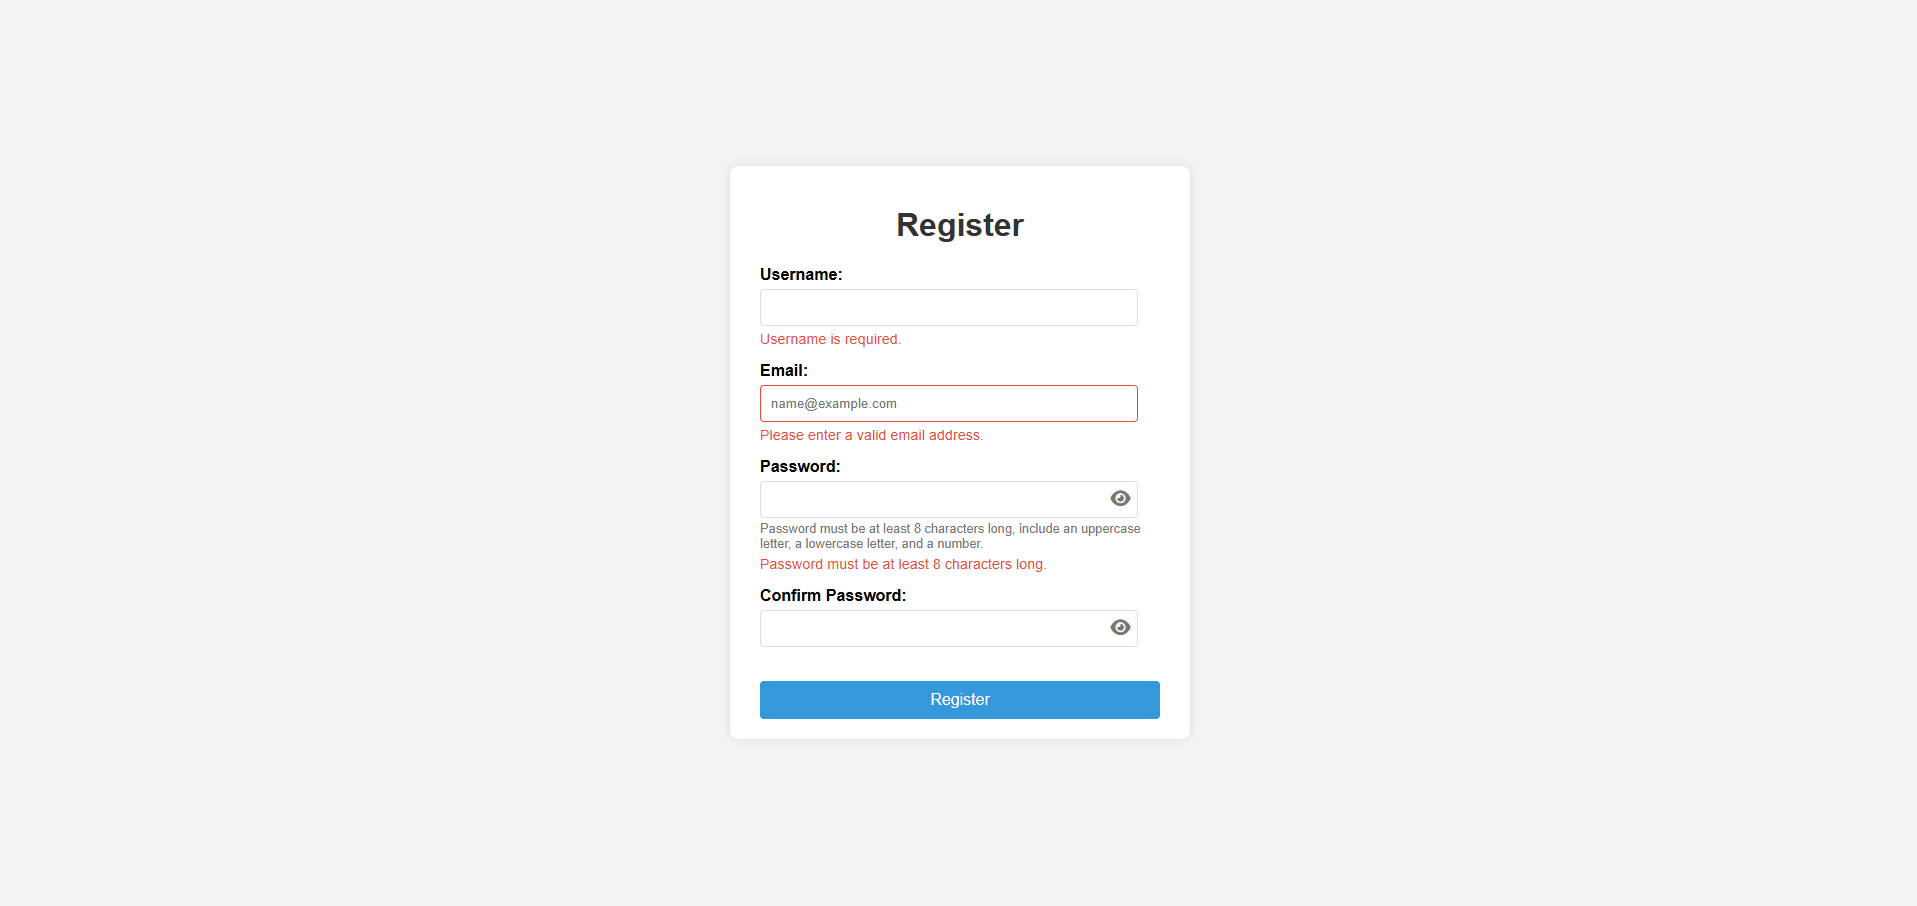
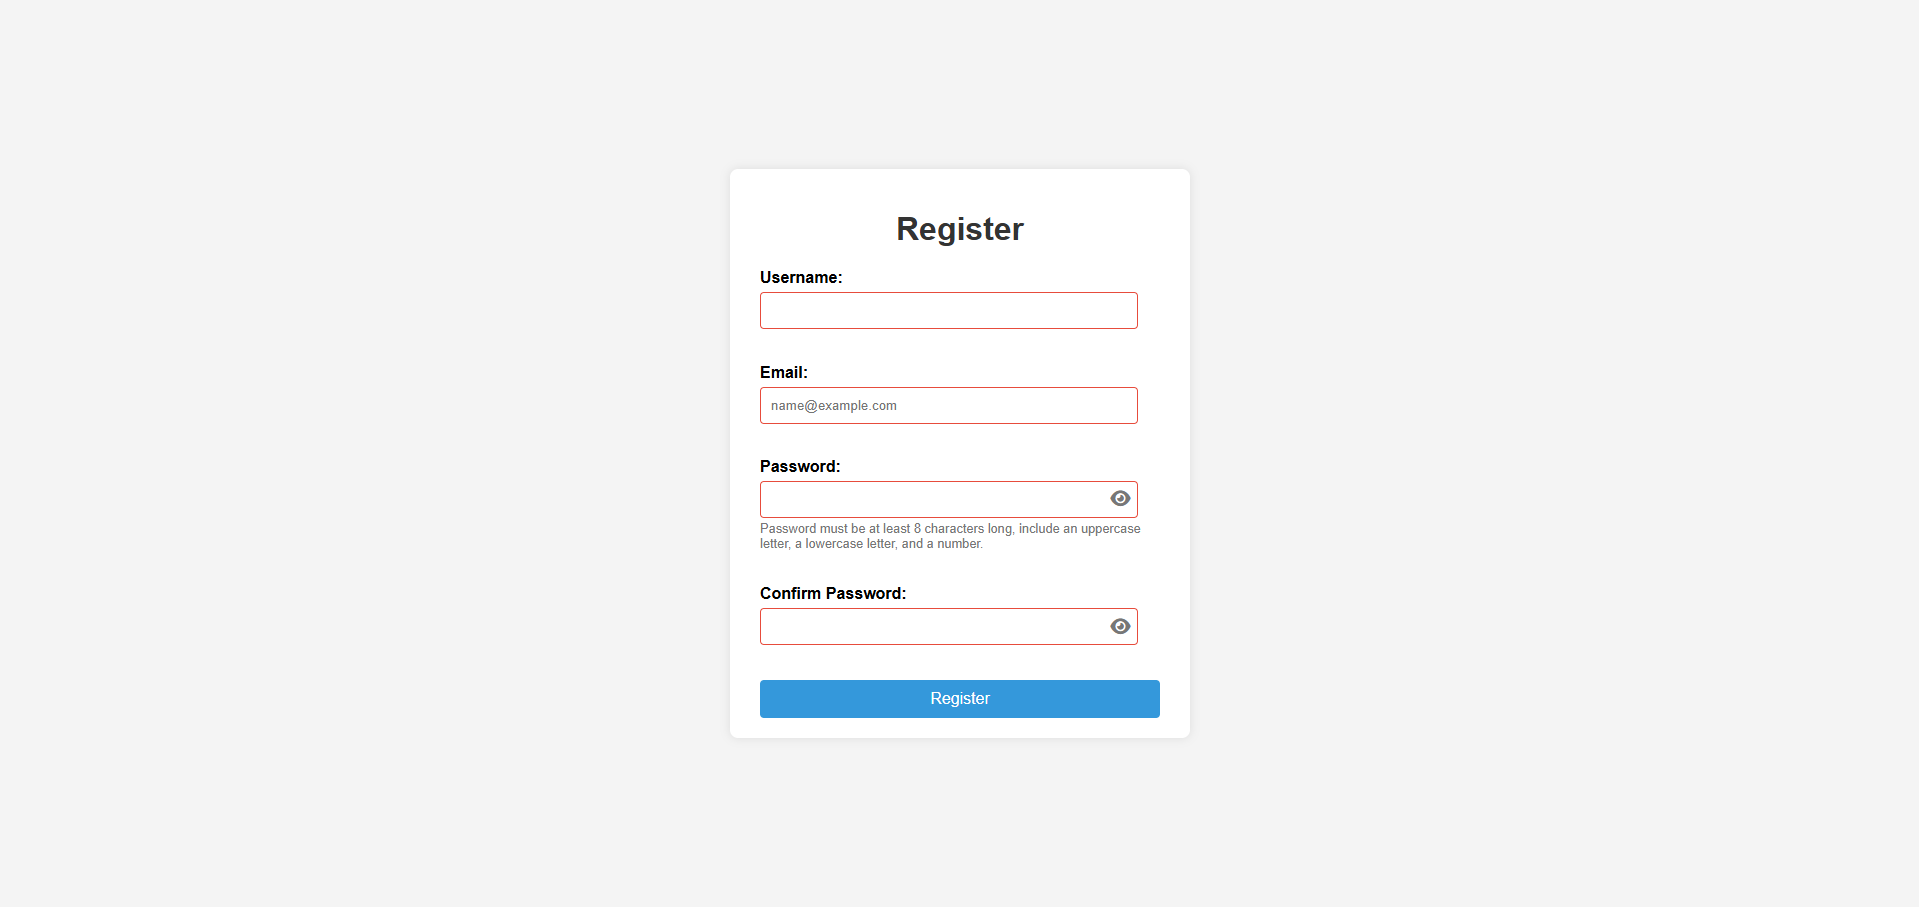
added new images to display in form preview section of README

diff --git a/README.md b/README.md
@@ -16,10 +16,13 @@ In order to create a responsive and interactive form, I applied a wide range of 
 
 [Click Here to Access Interactive User Registration Form](https://htmlpreview.github.io/?https://github.com/jcwynder/interactive-user-registration-form/blob/main/index.html)
 
-## App Preview
+## Form Preview
 
-Interactive User Registration Form
-![Design preview for Interactive User Registration Form](images/InteractiveUserRegistrationFormPreview.png)
+Interactive User Registration Form - initial form state
+![Design preview for Interactive User Registration Form (initial form state)](images/InteractiveUserRegistrationFormPreview.png)
+
+Interactive User Registration Form - rendered state of form if inputs fields are invalid after form submission
+![Design preview for Interactive User Registration Form](images/InteractiveUserRegistrationFormPreview2.png)
 
 ## Implementation
 
@@ -40,9 +43,9 @@ This form is nested within a parent container and includes:
 - A `<span>` element to display appropiate error messages to correspond with each input.
 - Unique `<button>` element(s) used to toggle visibility state (visible or hidden) of `input.values`.
 
-### App Styling
+### Form Styling
 
-After creating my HTML structure, I moved onto the `<styles.css>` file to apply styling to the app.
+After creating my HTML structure, I moved onto the `<styles.css>` file to apply styling to the form.
 
 The styling applied is used to make the form presentable and to style the error messages.
 
